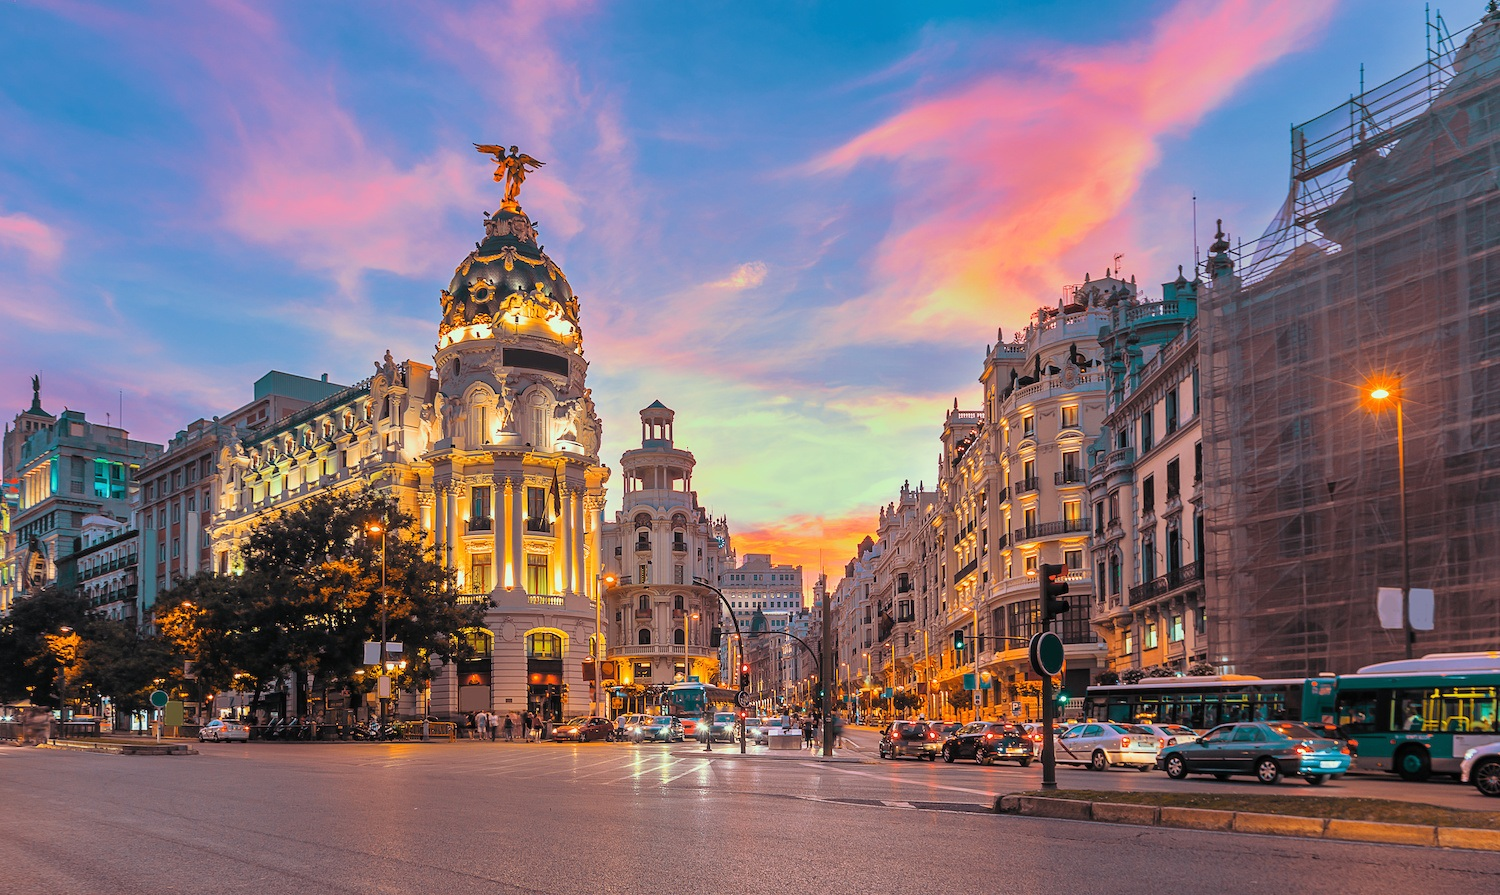
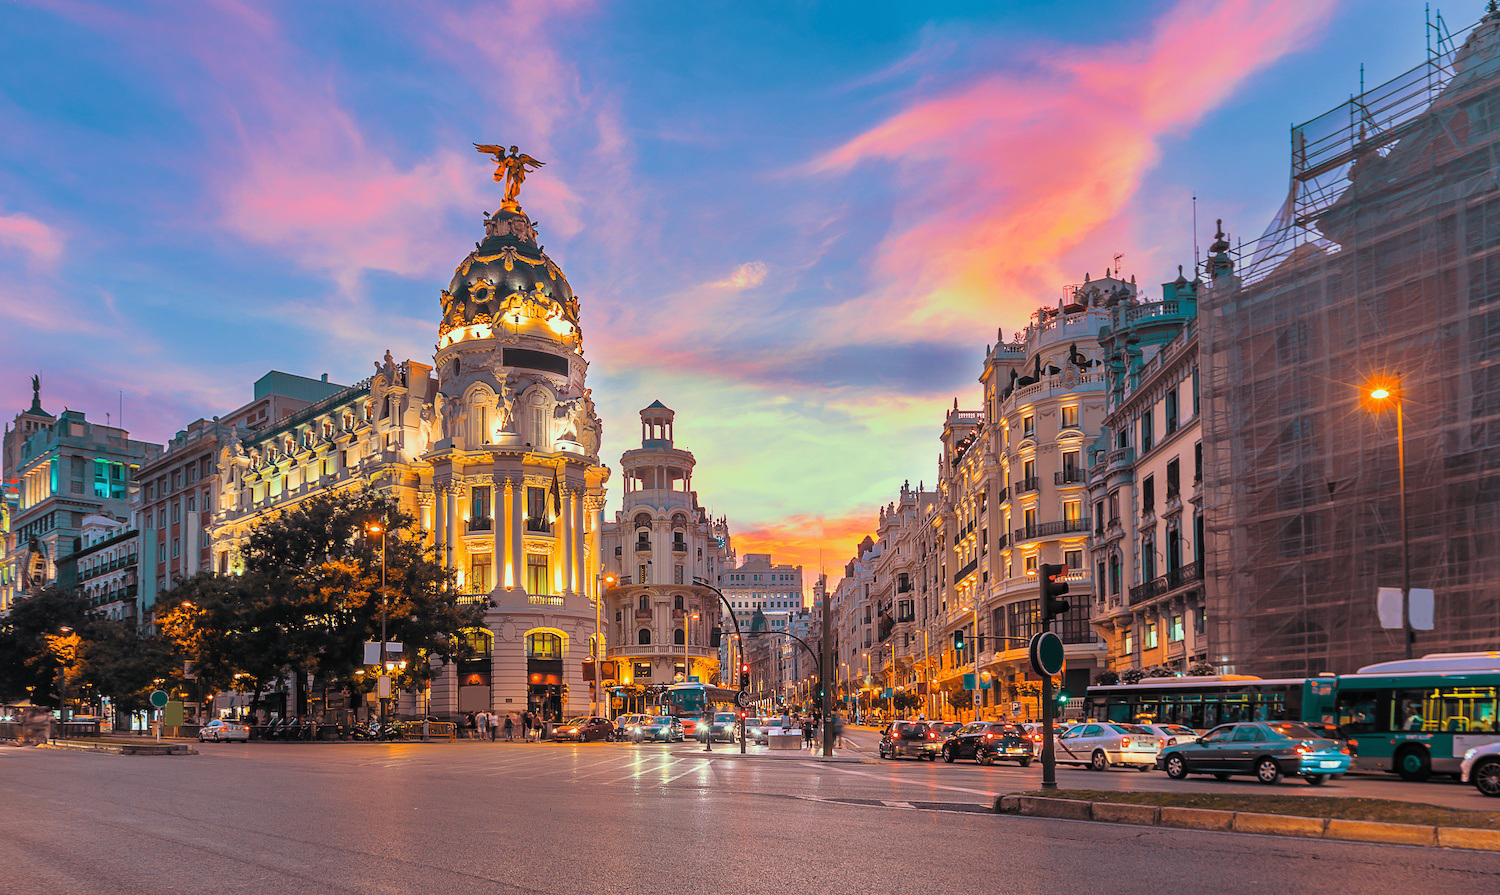
Home and footer fixed

diff --git a/app/assets/stylesheets/components/_card.scss b/app/assets/stylesheets/components/_card.scss
@@ -1,3 +1,7 @@
+.card-super-container {
+  margin-bottom: 12vh;
+}
+
 .card-walk {
   overflow: hidden;
   height: 14vh;
@@ -109,12 +113,12 @@
   margin: auto;
   border-radius: 46px;
   position: absolute;
-  top: 89vh;
+  top: 93.5vh;
   left: 50%;
   transform: translate(-50%, 0%);
   background-size: cover;
   color: white;
-  text-shadow: 1px 4px 10px rgba(0,0,0,0.8);
+  text-shadow: 1px 2px 4px rgba(0,0,0,0.8);
 }
 
 .card-home-green-girl__text{
@@ -138,12 +142,12 @@
   margin: auto;
   border-radius: 46px;
   position: absolute;
-  top: 150vh;
+  top: 154.5vh;
   left: 50%;
   transform: translate(-50%, 0%);
   background-size: cover;
   color: white;
-  text-shadow: 1px 4px 10px rgba(0,0,0,0.8);
+  text-shadow: 1px 2px 4px rgba(0,0,0,0.8);
 }
 
 .card-home-man__text {
@@ -159,7 +163,8 @@
   }
 
   p {
-    padding: 0 80px 0 0;
+    font-size: 14px;
+    padding: 0 130px 0 0;
   }
 }
 
@@ -172,12 +177,12 @@
   margin: auto;
   border-radius: 46px;
   position: absolute;
-  top: 193vh;
+  top: 197.5vh;
   left: 50%;
   transform: translate(-50%, 0%);
   background-size: cover;
   color: white;
-  text-shadow: 1px 4px 10px rgba(0,0,0,0.8);
+  text-shadow: 1px 2px 4px rgba(0,0,0,0.8);
 }
 
 .card-home-red-girl__text {
@@ -193,6 +198,7 @@
   }
 
   p {
+    font-size: 16px;
     padding: 0 0 0 80px;
   }
 }

diff --git a/app/assets/stylesheets/components/_banner.scss b/app/assets/stylesheets/components/_banner.scss
@@ -34,23 +34,31 @@
   display: flex;
   justify-content: space-around;
   align-items: center;
-  background-image: image-url("madrid_fall.png");
+  background-image: image-url("madrid.jpg");
   background-size: cover;
   background-position: center;
+
+  .banner-home-container {
+    justify-content: space-between;
+    height: 32%;
+    display: flex;
+    flex-direction: column;
+  }
 
   h1 {
     color: white;
     font-weight: bold;
     font-size: 46px;
-    text-shadow: 1px 4px 10px rgba(0,0,0,0.8);
+    text-shadow: 1px 2px 4px rgba(0,0,0,0.8);
   }
+
   p {
     color: white;
     opacity: .8;
     font-size: 20px;
     font-weight: 400;
     margin-bottom: 30px;
-    text-shadow: 1px 4px 10px rgba(0,0,0,1);
+    text-shadow: 1px 2px 4px rgba(0,0,0,1);
   }
 }
 

diff --git a/app/assets/stylesheets/application.scss b/app/assets/stylesheets/application.scss
@@ -33,7 +33,6 @@ body {
 
 .page-container {
   min-height: 100vh;
-  position: relative;
   top: 0;
   width: 100vw;
   overflow: hidden;

diff --git a/app/assets/stylesheets/components/_map.scss b/app/assets/stylesheets/components/_map.scss
@@ -1,6 +1,6 @@
 #map {
   align-items: center;
-  height: 80vh;
+  height: 75vh;
   width: 100%;
 
   .mapboxgl-ctrl-top-left {
